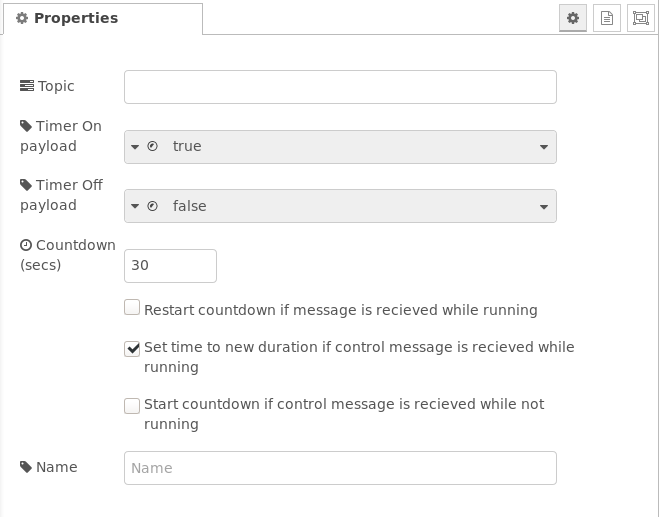
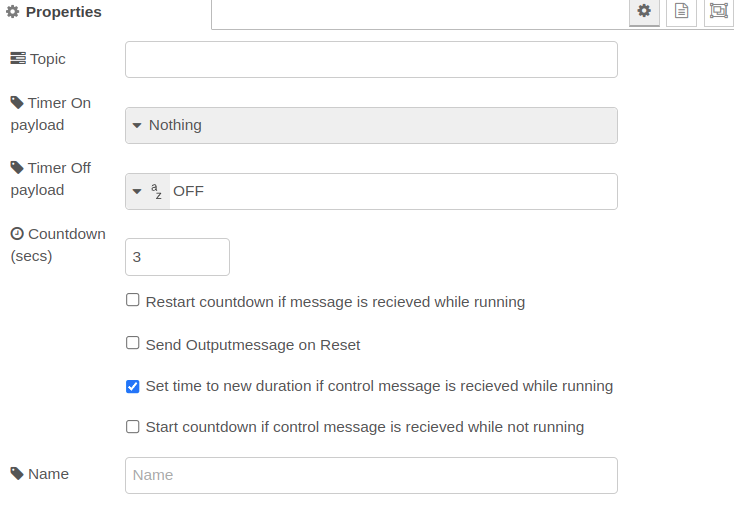
Add Option Message on Reset

diff --git a/countdown.js b/countdown.js
@@ -41,7 +41,7 @@ module.exports = function(RED) {
             }
         }
 
-        function stopTimer() {
+        function stopTimer(onReset = false) {
             node.status({
                 fill: "red", shape: "dot", text: "Stopped: " + timeout
             });
@@ -59,7 +59,15 @@ module.exports = function(RED) {
             if (node.config.payloadTimerStopType == "nul") {
                 node.send([null, remainingTicksMsg]);
             } else {
-                node.send([msg, remainingTicksMsg]);
+                if (node.config.outputOnReset) {
+                    node.send([msg, remainingTicksMsg]);
+                } else {
+                    if (onReset) {
+                        node.send([null, remainingTicksMsg]);
+                    } else {
+                        node.send([msg, remainingTicksMsg]);
+                    }
+                }
             }
 
             endTicker();
@@ -124,7 +132,7 @@ module.exports = function(RED) {
                 }
             } else {
                 if (msg.payload === false || msg.payload === 0) {
-                    stopTimer();
+                    stopTimer(true);
                 } else {
                     if (ticker) {
                         if (node.config.resetWhileRunning) {

diff --git a/countdown.html b/countdown.html
@@ -28,6 +28,12 @@
   </div>
 
   <div class="form-row">
+    <label for="node-input-outputOnReset">&nbsp;</label>
+    <input style="display:inline-block; width:15px; vertical-align:baseline;" type="checkbox" id="node-input-outputOnReset">
+    <span>Send Outputmessage on Reset</span>&nbsp;
+  </div>
+
+  <div class="form-row">
     <label for="node-input-setTimeToNewWhileRunning">&nbsp;</label>
     <input style="display:inline-block; width:15px; vertical-align:top;" type="checkbox" id="node-input-setTimeToNewWhileRunning">
     <span style="display:inline-block; width:70%">Set time to new duration if control message is recieved while running</span>&nbsp;
@@ -130,6 +136,7 @@
       payloadTimerStopType: { value: 'bool' },
       timer: { value: 30, validate:RED.validators.number()  },
       resetWhileRunning: { value: false },
+      outputOnReset: { value: true },
       setTimeToNewWhileRunning: { value: true },
       startCountdownOnControlMessage: { value: false }
     },

diff --git a/README.md b/README.md
@@ -66,7 +66,7 @@ The node evaluates the following input `msg` types:
 
 ## Outputs
 The node contains two outputs:
-- The **primary output** (upper output) emits an output `msg` at the **countdown start/stop** instant of time.  These `msg.payload` contents are configurable
+- The **primary output** (upper output) emits an output `msg` at the **countdown start/stop** instant of time.  These `msg.payload` contents are configurable. If Option "Send Outputmessage on Reset" ist set, the message is send, when the timer is stopped. Otherwise, the Stop message will only by send, if the timer reaches zero.
 - The **secondary output** (lower output) emits the **remaining time every second** during the timer runs. The `msg.payload` holds the remaining counting value
 
 
